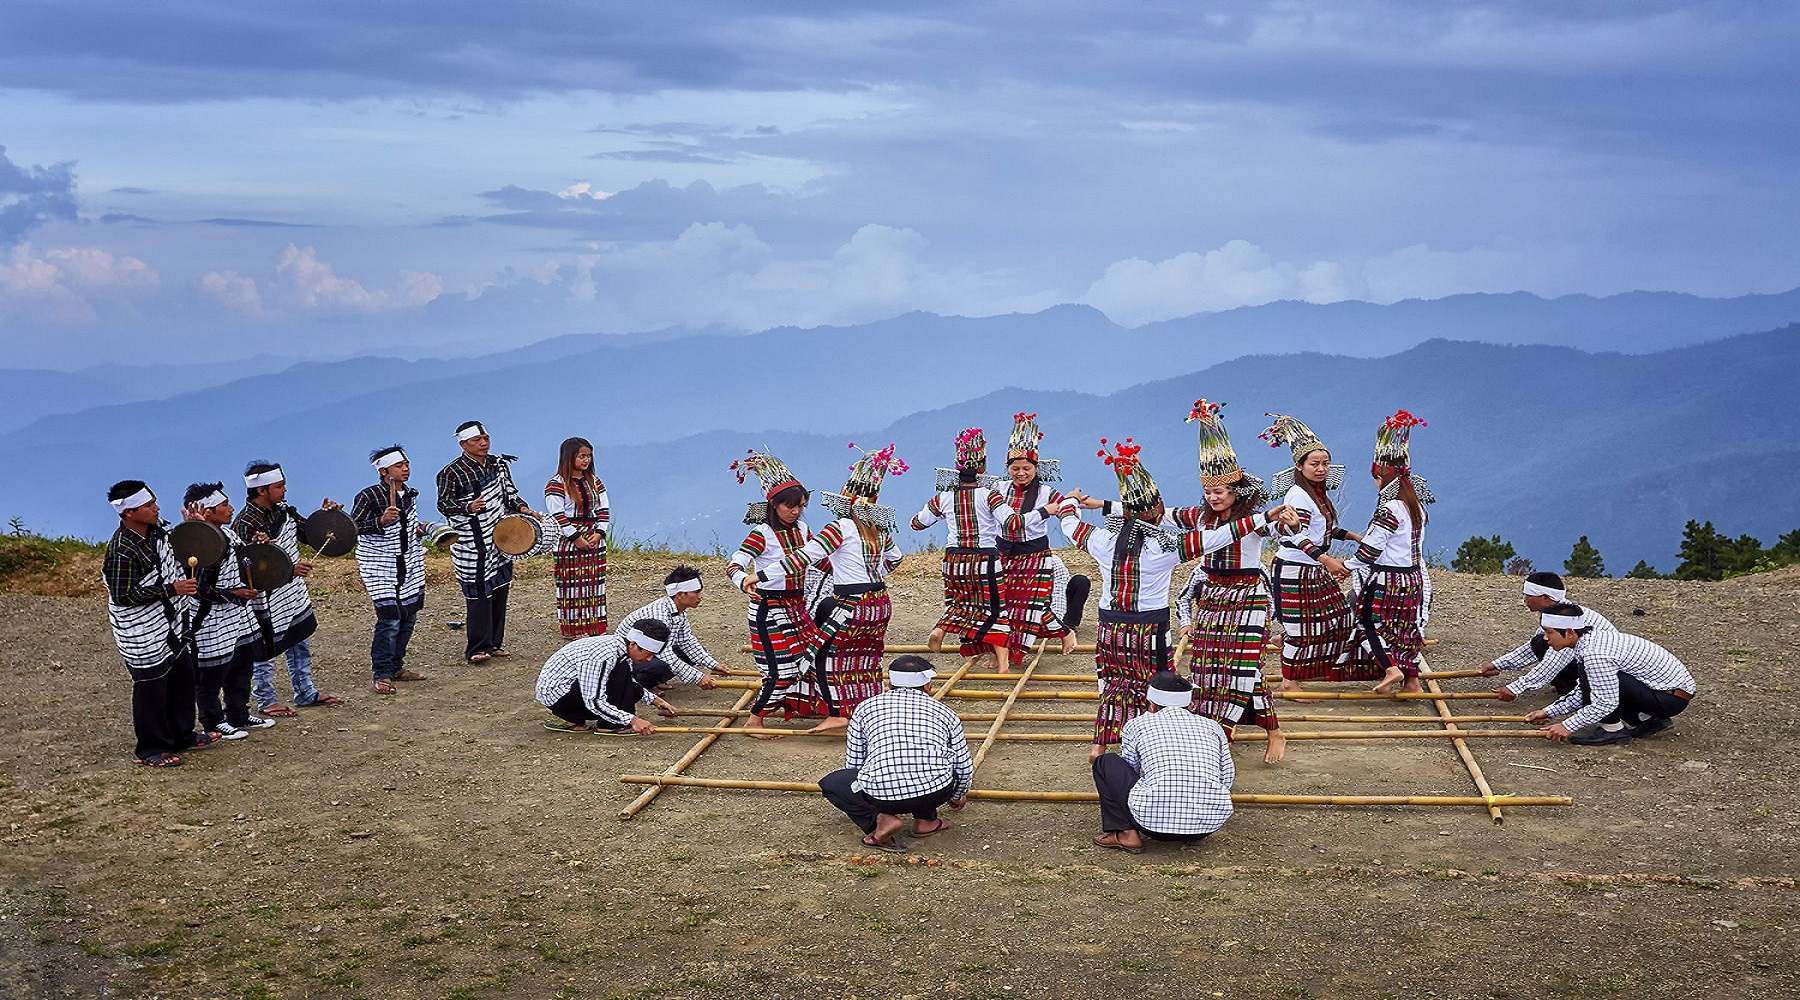
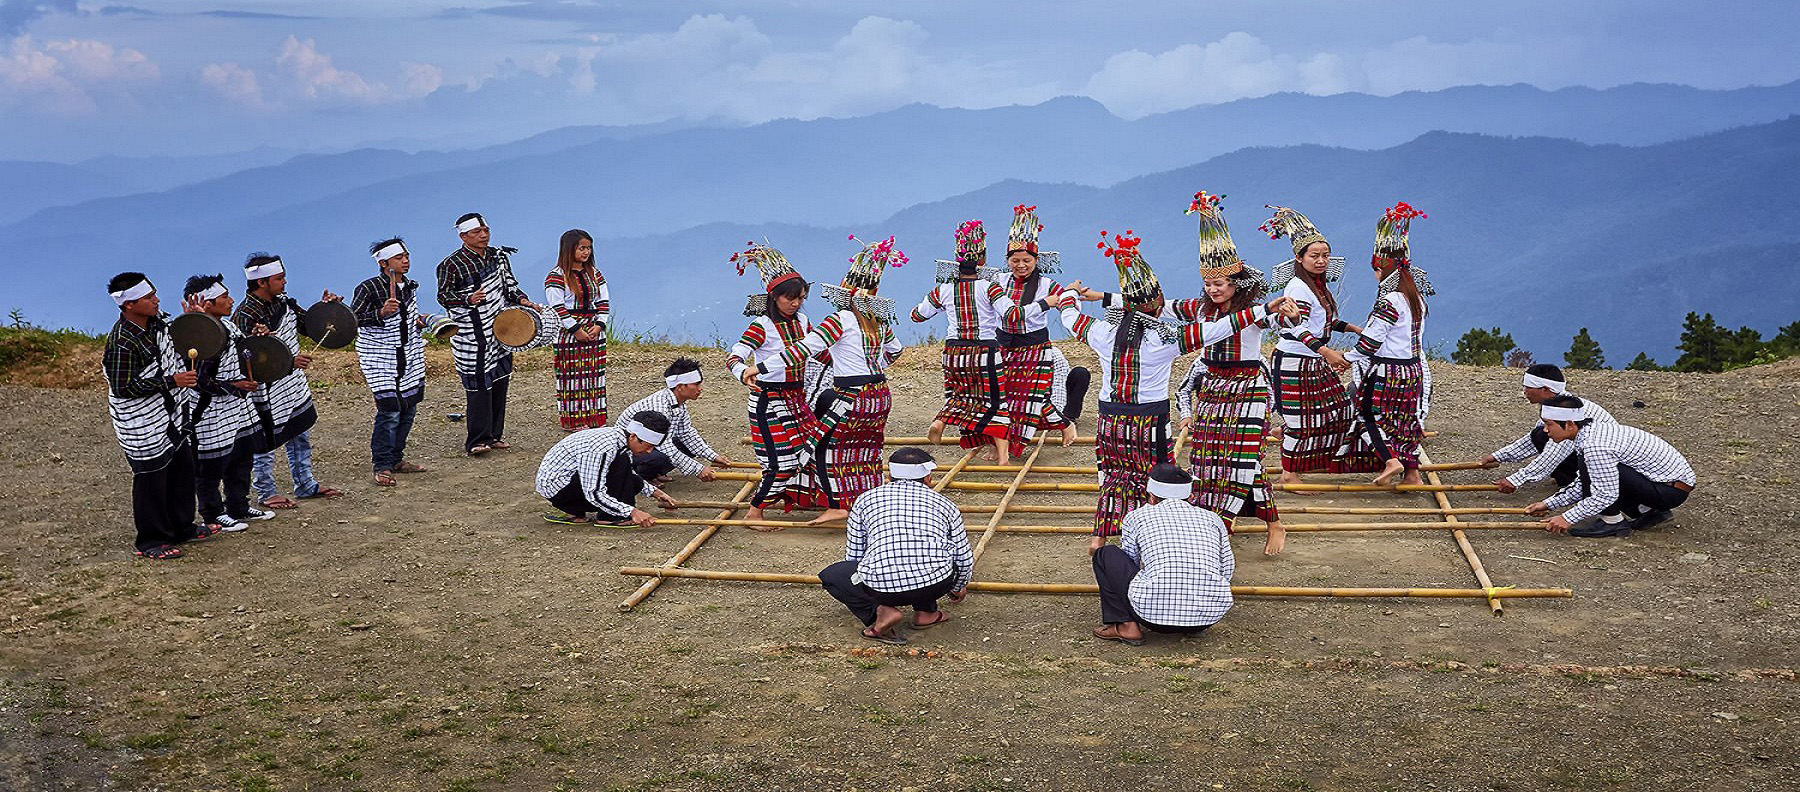
updating

diff --git a/public/frontend/css/style.css b/public/frontend/css/style.css
@@ -29,6 +29,8 @@ h2 {
 
 .divider-bg {
     background-image: url('/frontend/images/sample.JPG');
+    background-position: center;
+    background-size: cover;
 }
 
 .section-padding-100 {
